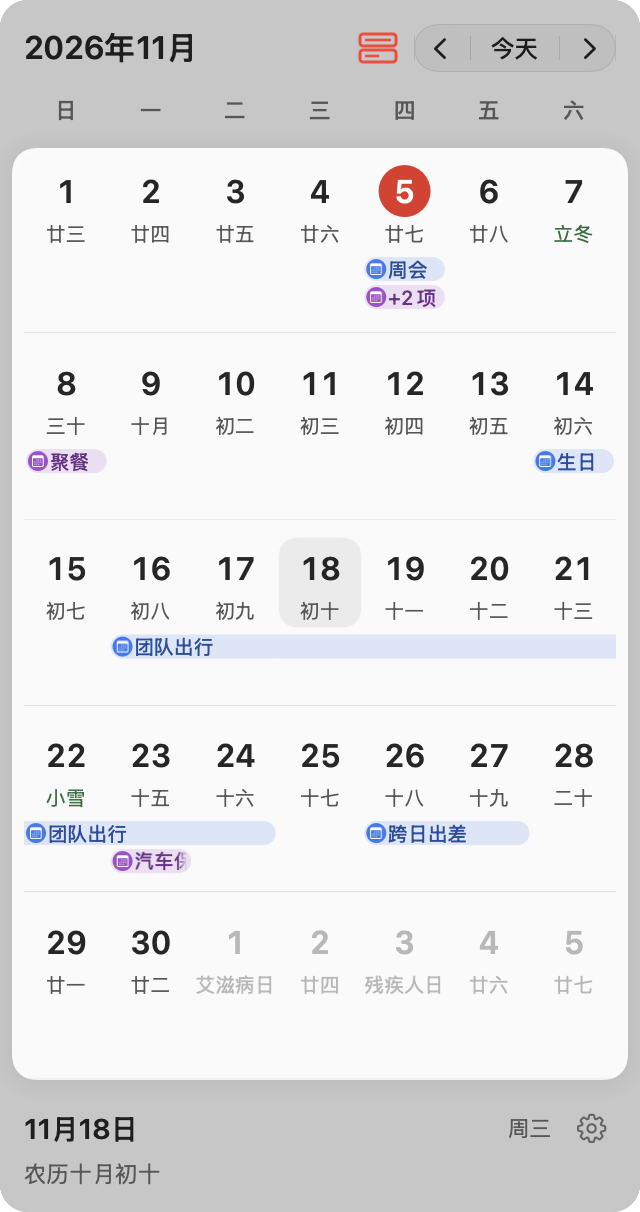
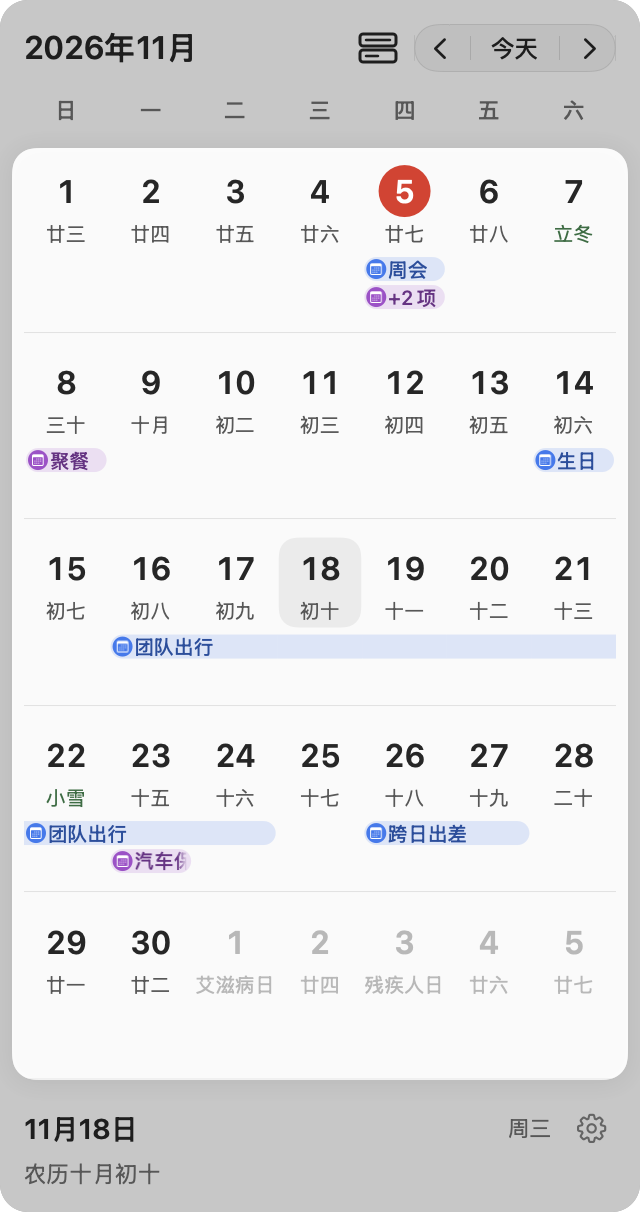
fix(calendar): 统一日程切换按钮的中性色与交互反馈
四种日程模式共用系统主文字色，悬停和按下显示不同深度的圆角背景，保留现有图形和切换顺序。补充真实反馈快照并同步参考文档、决策记录和展示图。

已完成调试构建、日程显示与日程内容专项、深浅色反馈画面检查及差异空白检查；提交时复用此前通过的专项结果。

diff --git a/Sources/DayOrder/AppDelegate.swift b/Sources/DayOrder/AppDelegate.swift
@@ -767,6 +767,9 @@ final class AppDelegate: NSObject, NSApplicationDelegate {
                     }
                     let frame = root.convert(icon.bounds, from: icon)
                     try require(icon.mode == mode && frame.minX > 120 && frame.maxX < 210, "模式图标未位于月份和今天之间")
+                    if month == 11 {
+                        try await saveEventModeFeedback(icon, name: "event-mode-\(mode.rawValue)-\(appearance)", to: directory)
+                    }
                     geometry.append(["month": month, "mode": mode.rawValue, "appearance": appearance,
                                      "viewport": height, "weeks": rows.count, "header": presentation.shell!.header.frame.height,
                                      "width": root.bounds.width, "iconX": frame.minX, "spanSeams": seams])
@@ -1191,6 +1194,22 @@ final class AppDelegate: NSObject, NSApplicationDelegate {
         model.today = today
         model.select(original)
         defaults.set("light", forKey: "appearance")
+    }
+
+    private func saveEventModeFeedback(_ button: CalendarEventModeButton, name: String, to directory: URL) async throws {
+        guard let window = button.window, let screen = NSScreen.screens.first,
+              let cursor = CGEvent(source: nil)?.location else { throw CocoaError(.coderInvalidValue) }
+        defer {
+            button.highlight(false)
+            CGWarpMouseCursorPosition(cursor)
+            button.updateTrackingAreas()
+        }
+        let point = window.convertPoint(toScreen: button.convert(NSPoint(x: button.bounds.midX, y: button.bounds.midY), to: nil))
+        CGWarpMouseCursorPosition(CGPoint(x: point.x, y: screen.frame.maxY - point.y))
+        button.updateTrackingAreas()
+        try await saveSnapshot(name + "-hover", to: directory)
+        button.highlight(true)
+        try await saveSnapshot(name + "-pressed", to: directory)
     }
 
     private func saveOverviewMonthFeedback(year: Int, month: Int, name: String, to directory: URL) async throws {

diff --git a/Sources/DayOrder/CalendarEventPresentation.swift b/Sources/DayOrder/CalendarEventPresentation.swift
@@ -18,6 +18,11 @@ struct CalendarEventToggle: NSViewRepresentable {
 
 final class CalendarEventModeButton: NSButton {
     var mode = CalendarEventDisplay.hidden { didSet { needsDisplay = true } }
+    private var hoverArea: NSTrackingArea?
+    private var isHovered: Bool {
+        guard let window, window.isVisible else { return false }
+        return visibleRect.contains(convert(window.mouseLocationOutsideOfEventStream, from: nil))
+    }
     override var isFlipped: Bool { true }
     override var intrinsicContentSize: NSSize { NSSize(width: 24, height: 24) }
 
@@ -34,12 +39,25 @@ final class CalendarEventModeButton: NSButton {
     }
     required init?(coder: NSCoder) { fatalError("init(coder:) has not been implemented") }
 
+    override func updateTrackingAreas() {
+        super.updateTrackingAreas()
+        if let hoverArea { removeTrackingArea(hoverArea) }
+        let area = NSTrackingArea(rect: .zero, options: [.mouseEnteredAndExited, .activeAlways, .inVisibleRect],
+                                  owner: self, userInfo: nil)
+        addTrackingArea(area)
+        hoverArea = area
+        needsDisplay = true
+    }
+    override func mouseEntered(with event: NSEvent) { needsDisplay = true }
+    override func mouseExited(with event: NSEvent) { needsDisplay = true }
+    override func viewDidChangeEffectiveAppearance() { needsDisplay = true }
+
     override func draw(_ dirtyRect: NSRect) {
-        if isHighlighted {
-            NSColor.labelColor.withAlphaComponent(0.06).setFill()
+        if isHighlighted || isHovered {
+            NSColor.labelColor.withAlphaComponent(isHighlighted ? 0.10 : 0.06).setFill()
             NSBezierPath(roundedRect: bounds, xRadius: 6, yRadius: 6).fill()
         }
-        NSColor.systemRed.setStroke()
+        NSColor.labelColor.setStroke()
         func outline(_ rect: NSRect, radius: CGFloat) {
             let path = NSBezierPath(roundedRect: rect, xRadius: radius, yRadius: radius)
             path.lineWidth = 1.5

diff --git a/docs/calendar-reference.md b/docs/calendar-reference.md
@@ -61,7 +61,7 @@
 
 ## 系统日历日程
 
-月份标题与“今天”导航之间的图标每点击一次，按详细、精简、圆点、隐藏顺序循环切换；隐藏后的下一档为详细，不打开下拉菜单。图标分别使用含文字线的双层圆角框、双层空胶囊、分格胶囊、单个空胶囊。默认隐藏，只持久化模式偏好。现有面板宽度、日期与农历样式、节日优先级、底部日期详情和导航不变，显示模式按需要增加日期行高，当天日程可在周行下方进一步展开。
+月份标题与“今天”导航之间的图标每点击一次，按详细、精简、圆点、隐藏顺序循环切换；隐藏后的下一档为详细，不打开下拉菜单。图标分别使用含文字线的双层圆角框、双层空胶囊、分格胶囊、单个空胶囊。四档均使用系统主文字色，与切月箭头保持同级，并自动适配深浅外观；默认无底色，悬停时显示 6% 主文字色的圆角背景，按下时加深至 10%，通过图形及悬停说明区分模式。默认隐藏，只持久化模式偏好。现有面板宽度、日期与农历样式、节日优先级、底部日期详情和导航不变，显示模式按需要增加日期行高，当天日程可在周行下方进一步展开。
 
 四档切换复用设置过渡的 220 ms 感知时长和无回弹系统弹簧：圆角正文、面板高度和底部详情同步变化，日期格与周分隔线按当前位置和速度插值，日期与农历字形保持原生大小。日程标记与正文共用弹簧：胶囊压扁为横线，横线收拢为圆点，圆点逐渐淡出；再次显示时从透明圆点展开为胶囊。图标和文字随空间缩小渐隐，不拉伸字形。连续点击保留标记、格子和容器的当前位置、透明度与速度，准备阶段不交还旧正文。切档从点击后的布局准备开始，月份、切档图标和星期栏始终固定在原位置，日期区向下展开或收回，底栏跟随移动。页眉和底栏保持真实内容与原有亮度；事件查询结果没有变化时不重复发布更新；当天日程未展开时，读取完成仅更新日程标记，接续当前形状和速度，不重新启动日期区或窗口动画；展开日期的事件实际变化且详情可见时，重新采集布局端点，以容纳日程数量及高度变化；其他日期更新不重做当天详情，屏幕外详情由真实列表更新。返回今天或月份导航正在滚动时，事件更新直接刷新列表与行高，不重新准备详情动画，也不因高度变化中断同一导航。日期底图按周批量采集，再按窗口像素网格裁切为日期格，以原始尺寸移动，避免交还真实视图时发生再次采样。终点收敛后恢复真实视图并停止刷新。关闭、导航会取消旧缩放，进入设置或年概览交由同一展示控制器接续；系统“减少动态效果”使用 120 ms 短淡化。
 

diff --git a/docs/verification.md b/docs/verification.md
@@ -85,7 +85,7 @@ python3 scripts/run-smoke.py "$PWD/build/calendar-mode-smoke" --calendar-mode-sm
 python3 scripts/run-smoke.py "$PWD/build/calendar-events-smoke" --calendar-events-smoke
 ```
 
-该检查通过生产图标按钮按顺序循环切换到四档模式，使用真实控制器、日期索引、日期按钮和面板生成 `events-{月份}-{模式}-{外观}.png`、`events-geometry.json` 与 `result.txt`。覆盖默认隐藏不读取、不请求授权，授权拒绝、系统限制、仅写权限、重复授权请求合并、偏好持久化、读取失败与重试、跨日事件、隐藏后的迟到结果、读取期间权限撤销，以及后台线程的事件库变更通知。
+该检查通过生产图标按钮按顺序循环切换到四档模式，使用真实控制器、日期索引、日期按钮和面板生成 `events-{月份}-{模式}-{外观}.png`、`events-geometry.json` 与 `result.txt`。另生成 `event-mode-{模式}-{外观}-{hover,pressed}.png`，将鼠标移入真实模式按钮并采集悬停、按下画面，结束后恢复鼠标位置；需人工检查四档图形、中性色及两档反馈的深浅色表现。覆盖默认隐藏不读取、不请求授权，授权拒绝、系统限制、仅写权限、重复授权请求合并、偏好持久化、读取失败与重试、跨日事件、隐藏后的迟到结果、读取期间权限撤销，以及后台线程的事件库变更通知。
 
 二月、八月和十一月分别覆盖四至六周月份，选中跨日事件中的 18 日；十月额外选中 6 日，同时展示跨日假期与单日事件。在每种模式与深浅色下检查面板仍宽 320 pt、选择保留、图标处于月份与“今天”之间、日期反馈底色不延伸到日程区域、日程与底色至少间隔 3 pt 且底部不被日期格裁切，并检查隐藏模式不在日期旁白标签中保留事件标题。九天的跨周示例覆盖详细胶囊和精简横线，检查同周内各日期共享横条几何位置，直接采集日期列接缝的蓝色像素，并比较长短周段的底色防止重复叠绘，`events-geometry.json` 的 `spanSeams` 记录接缝采样数；另生成设置及年概览快照。普通冒烟包含同一检查，后续继续验证原有导航、滚动和页面过渡。
 

diff --git a/docs/notes/implemented/feature/2026-11-06-calendar-mode-cycling.md b/docs/notes/implemented/feature/2026-11-06-calendar-mode-cycling.md
@@ -10,6 +10,8 @@ Status: implemented
 
 单个原生按钮按详细、精简、圆点、隐藏、详细的顺序切换，图标、提示与旁白说明当前及下一档。顺序由显示模式拥有，按钮直接调用生产控制器，不再保留原生菜单或菜单协调器。
 
+按钮使用系统主文字色与切月导航保持同级，四档通过图形表达，不以红色突出辅助显示操作，避免与“今天”标记争夺注意力。默认无底色，悬停和按下分别提供淡色、较深的圆角背景；悬停绘制以当前鼠标位置为准，不保存可能过期的进入状态。
+
 隐藏模式在检测权限之前返回，清空投影并使在途查询失效。非隐藏模式在切换、恢复偏好和正常刷新时读取实际权限；尚未决定和仅写权限自动请求完整访问，完整访问不重复申请。系统已拒绝或限制访问时无法重复显示系统授权窗，只在恢复已启用的偏好或用户主动切到非隐藏模式时提示打开系统设置，不因切月或后台通知反复提示；刚拒绝授权窗后不立即追加设置提示，避免连环弹窗。权限提示不改变原有面板布局。
 
 已开始的系统授权任务可以完成，但所有消费者仍经过代际与取消检查；迟到事件返回后，先判断请求是否仍有效，再做权限复查，避免隐藏后又开始权限检测。
